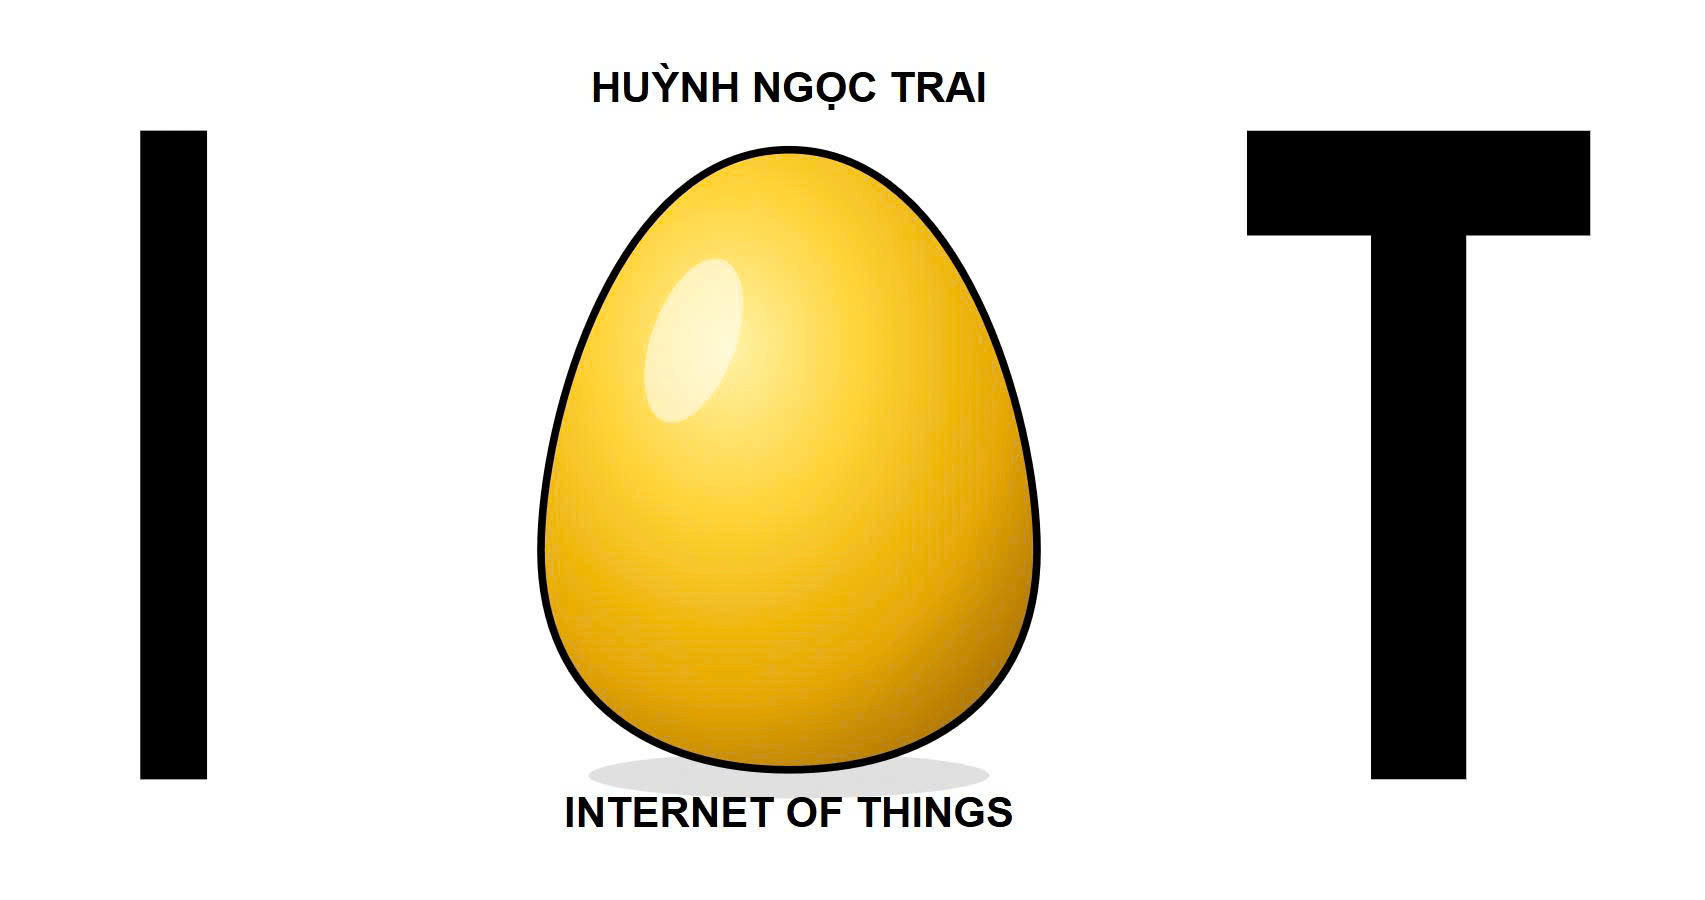
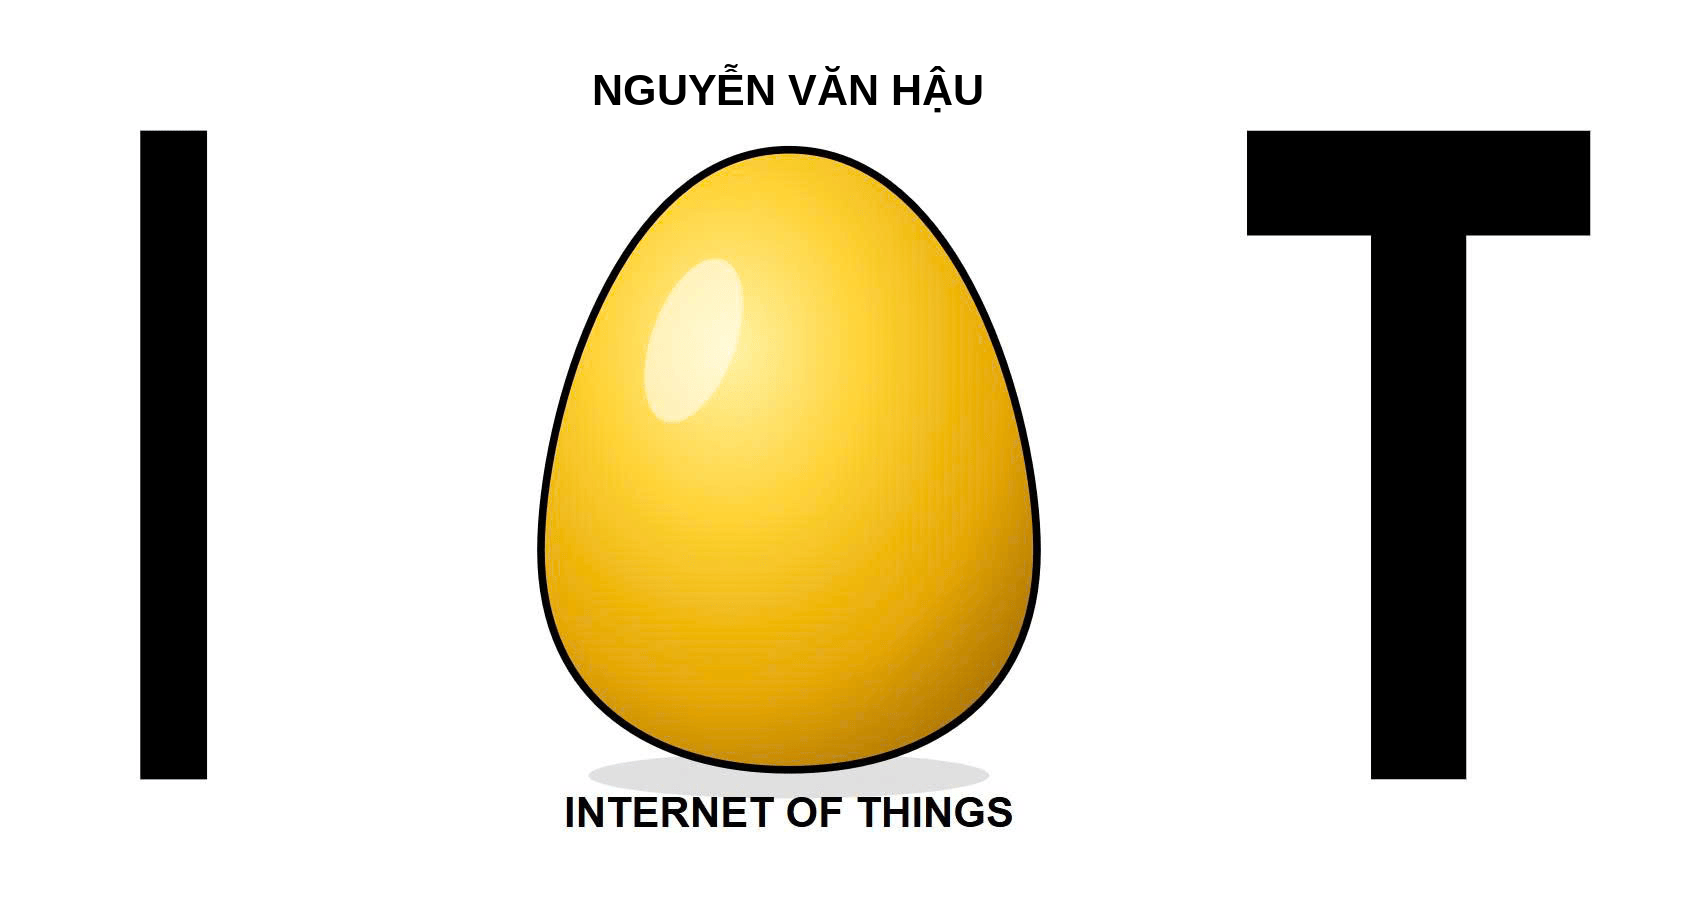
Add files via upload

Changed region(s): [[0.3419, 0.0622, 0.5906, 0.1244]]

diff --git a/index.html b/index.html
@@ -1506,7 +1506,7 @@
 
     <!-- MÀN HÌNH NHẬP MÃ PIN -->
     <div class="pin-screen" id="pinScreen">
-        <div class="welcome-title">👋 CHÀO MỪNG QUAY TRỞ LẠI: HUỲNH NGỌC TRAI</div>
+        <div class="welcome-title">👋 CHÀO MỪNG QUAY TRỞ LẠI: NGUYỄN VĂN HẬU</div>
         <div class="pin-container-wrapper">
             <div class="chick-npc-wrapper">
                 <div class="speech-bubble">Hôm nay bạn muốn ăn thịt gà hay trứng</div>
